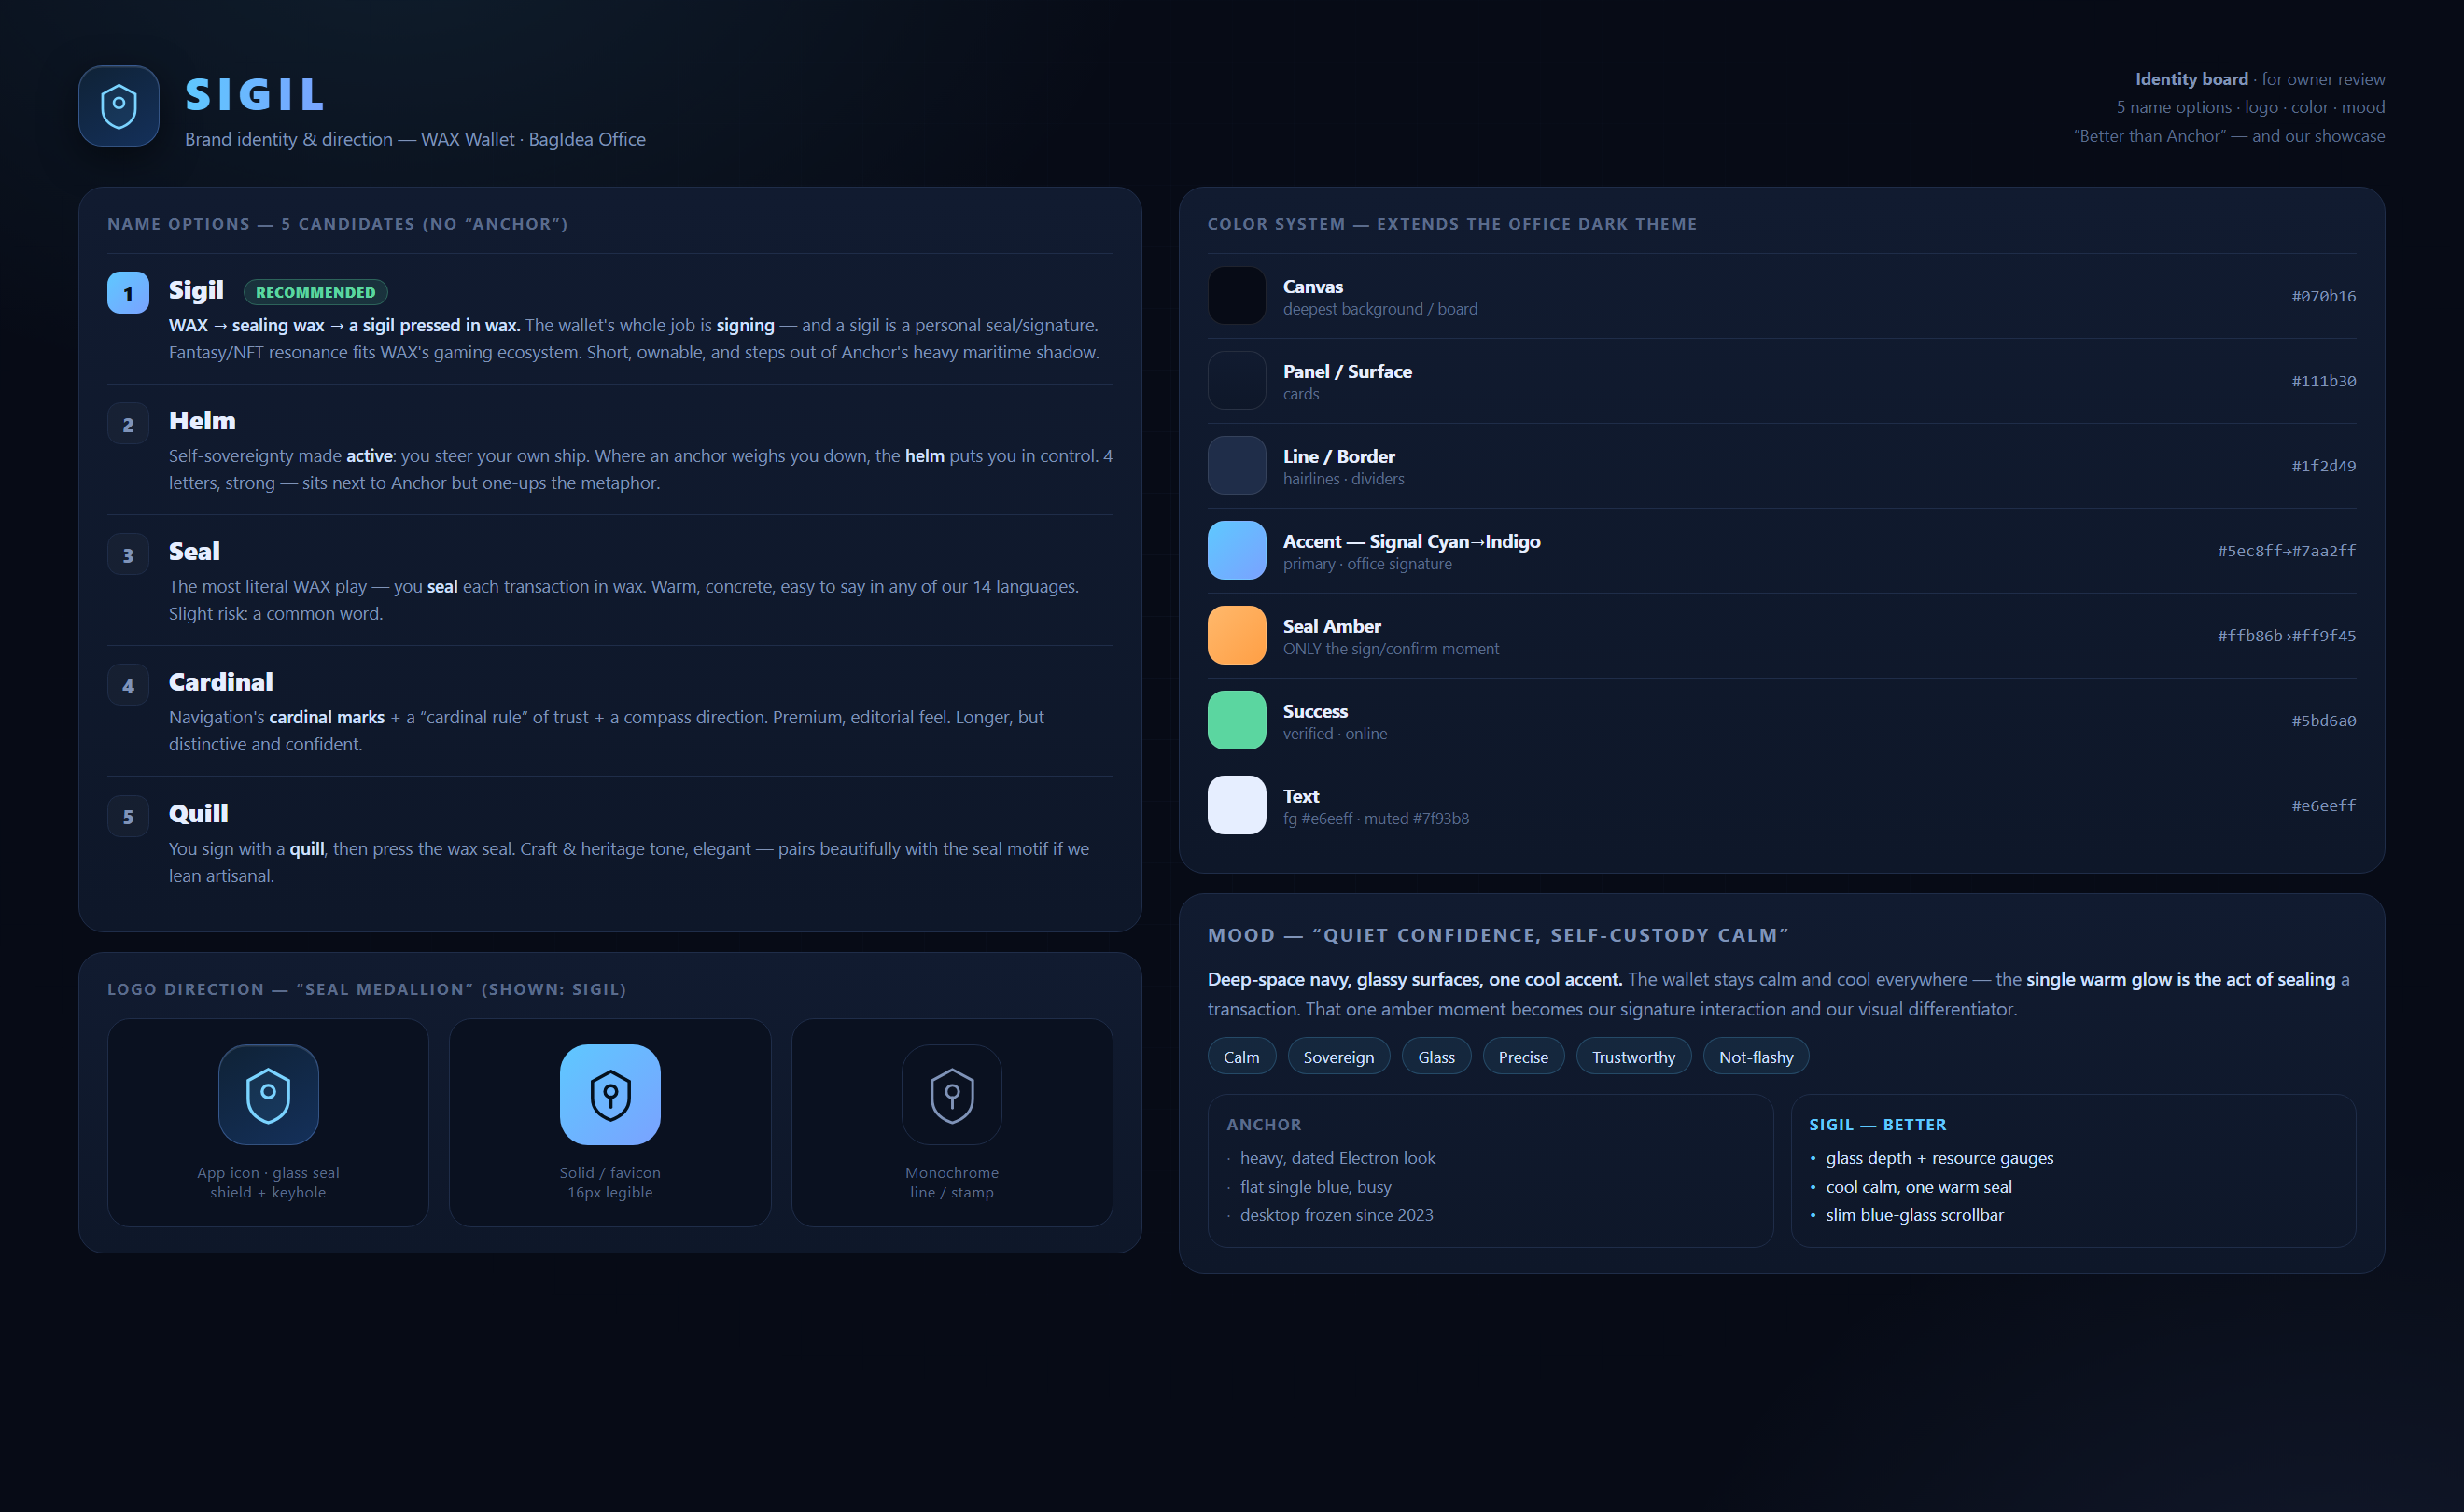
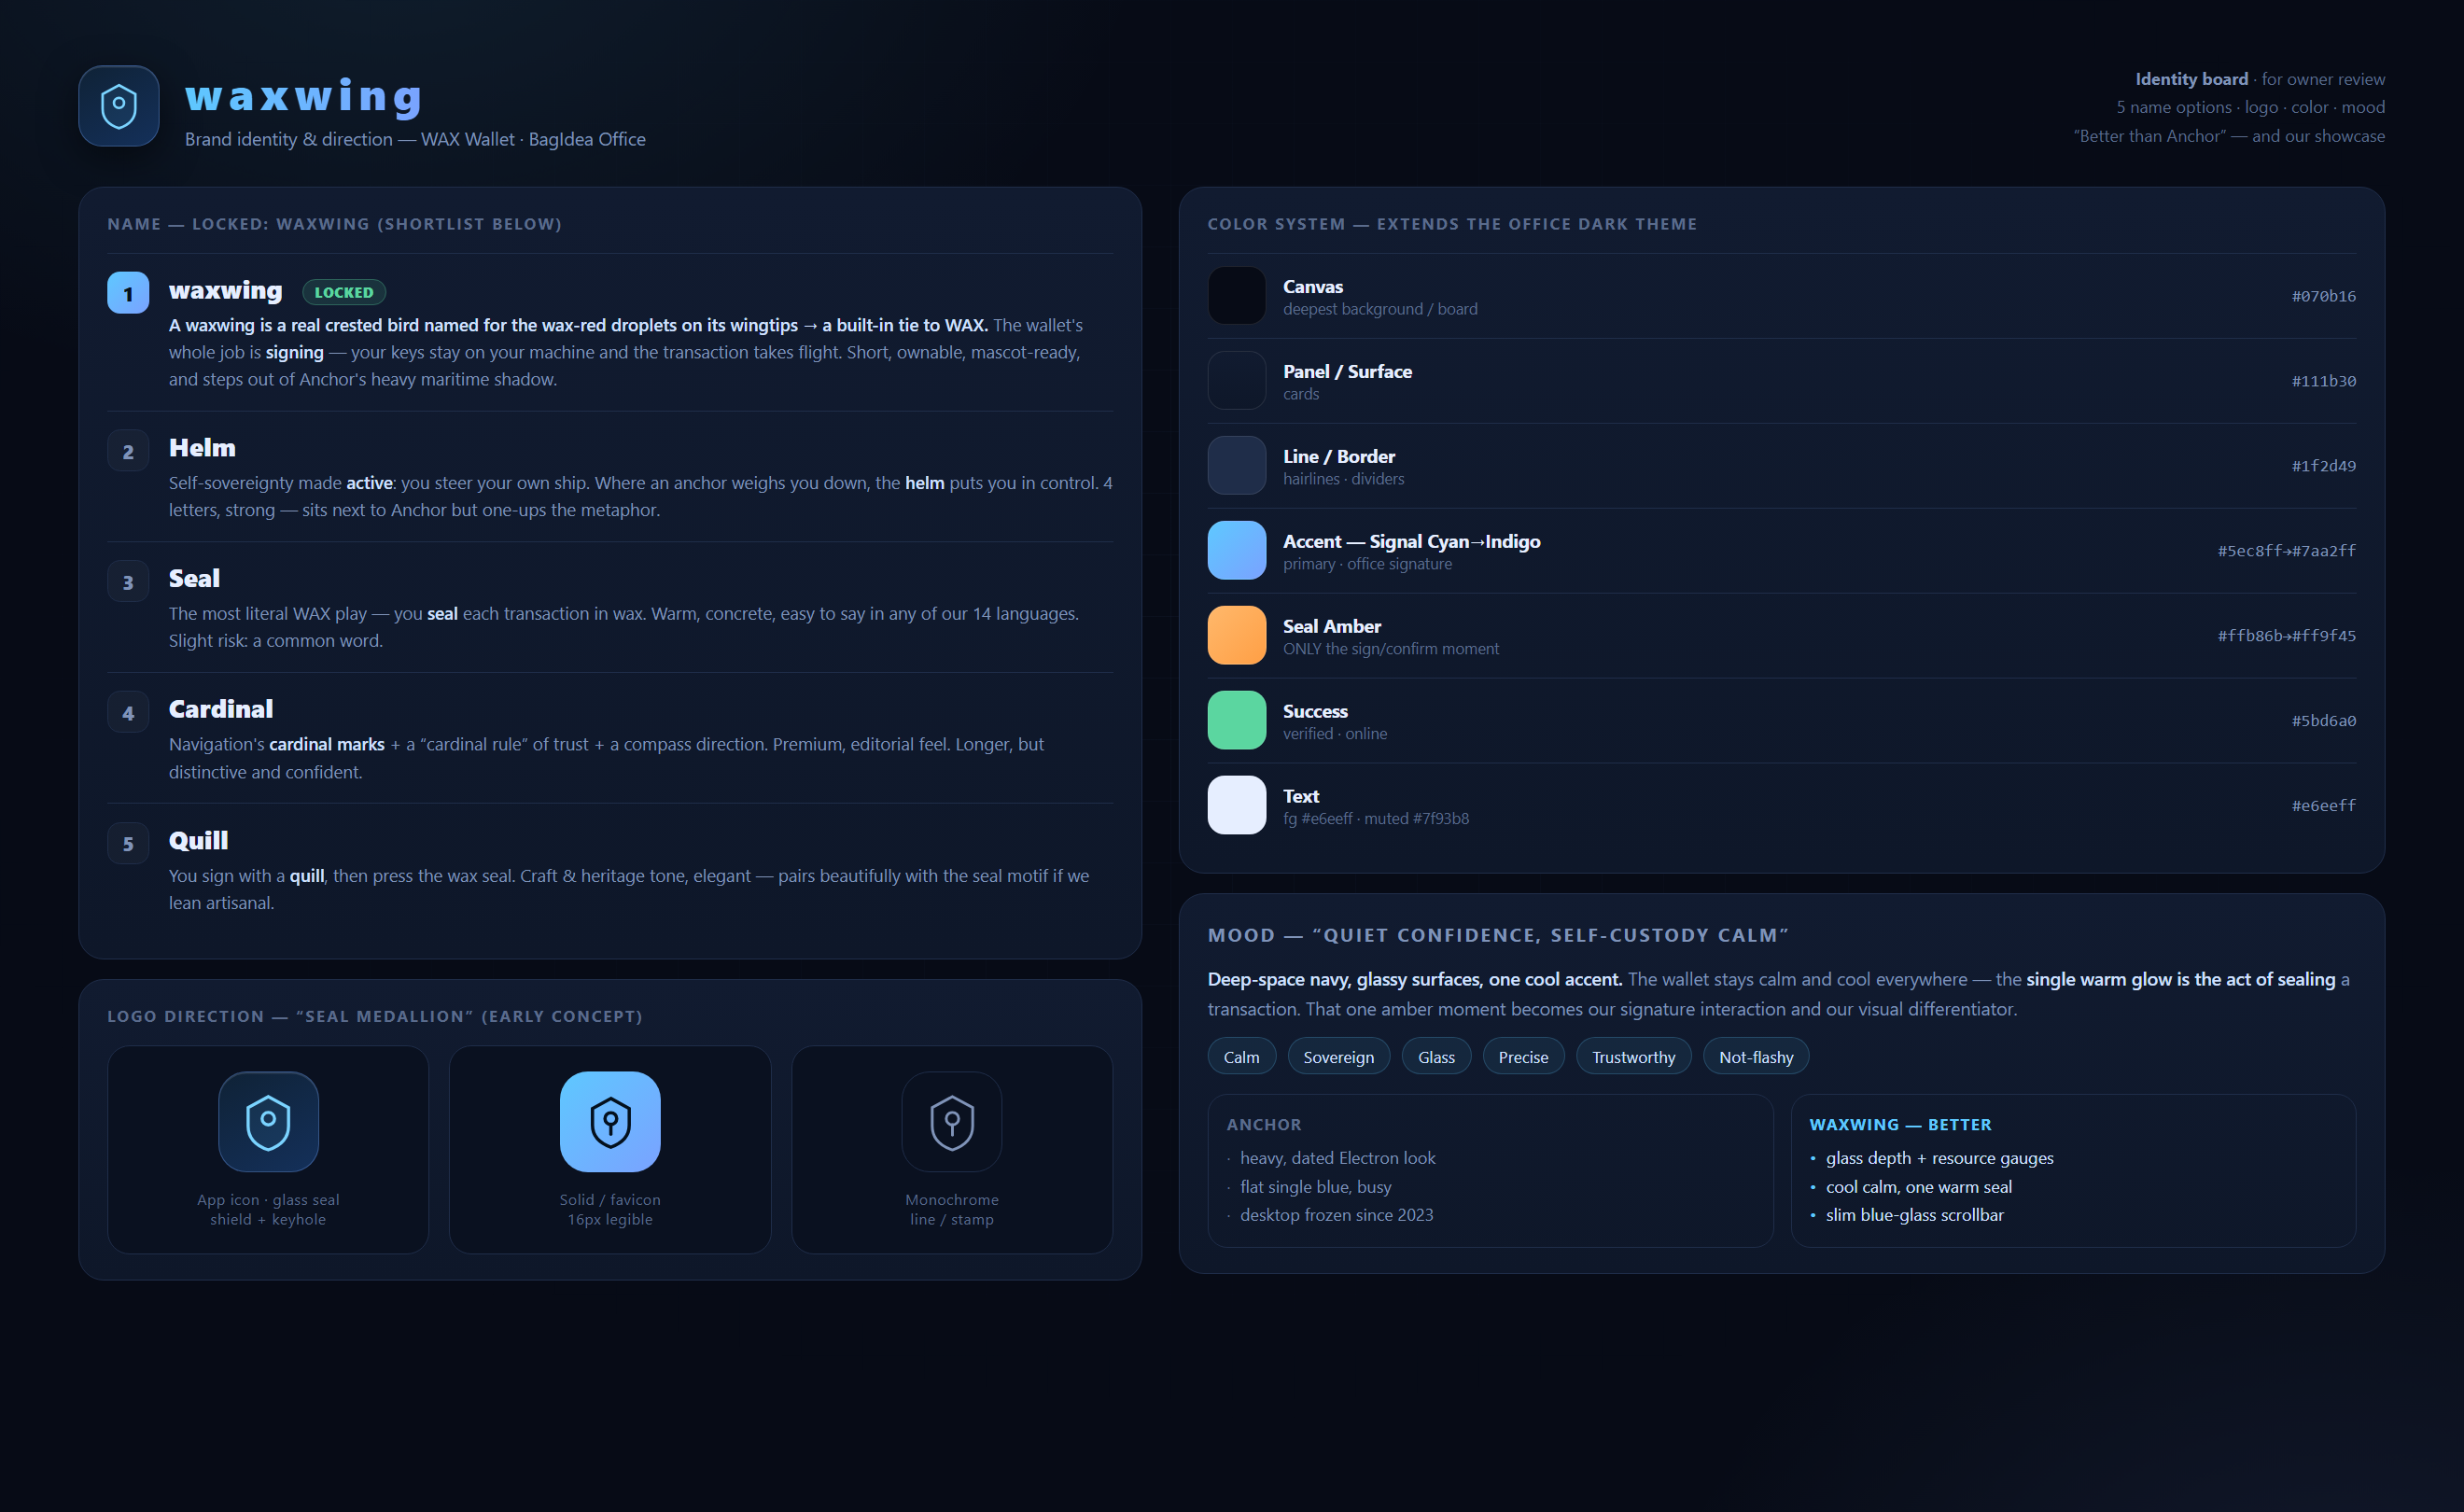
brand: replace leftover "Sigil" branding with waxwing across design/brand assets
The README hero already used brand/hero-waxwing.png, but design/preview-screens.png
(referenced in the README) and preview-identity.png were rendered from mockups still
showing the old "SIGIL" wordmark. Rebrand the mockups + docs to waxwing and re-render
all three preview PNGs. No "Sigil" string remains anywhere in the repo.

diff --git a/design/mockup-identity.html b/design/mockup-identity.html
@@ -1,6 +1,6 @@
 <!doctype html>
 <html lang="en"><head><meta charset="utf-8"/>
-<title>Sigil — Identity</title>
+<title>waxwing — Identity</title>
 <style>
 :root{
   --bg:#0a1020; --panel:#111b30; --panel2:#0e1729; --line:#1f2d49;
@@ -88,7 +88,7 @@ body{font-family:"Segoe UI",system-ui,"Noto Sans Thai",sans-serif;-webkit-font-s
           <path d="M16 17.2 V23" stroke="url(#lg)" stroke-width="1.7" stroke-linecap="round"/>
         </svg>
       </div>
-      <div><div class="wm"><b>SIGIL</b></div><div class="tag">Brand identity & direction — WAX Wallet · BagIdea Office</div></div>
+      <div><div class="wm"><b>waxwing</b></div><div class="tag">Brand identity & direction — WAX Wallet · BagIdea Office</div></div>
     </div>
     <div class="headmeta"><div><b>Identity board</b> · for owner review</div><div>5 name options · logo · color · mood</div><div>“Better than Anchor” — and our showcase</div></div>
   </div>
@@ -97,11 +97,11 @@ body{font-family:"Segoe UI",system-ui,"Noto Sans Thai",sans-serif;-webkit-font-s
     <!-- LEFT: names -->
     <div class="left">
       <div class="card">
-        <p class="sect">Name options — 5 candidates (no “Anchor”)</p>
+        <p class="sect">Name — locked: waxwing (shortlist below)</p>
         <div class="name top">
           <div class="rank">1</div>
-          <div><div class="nm">Sigil <span class="pick">RECOMMENDED</span></div>
-            <div class="why"><b>WAX → sealing wax → a sigil pressed in wax.</b> The wallet's whole job is <b>signing</b> — and a sigil is a personal seal/signature. Fantasy/NFT resonance fits WAX's gaming ecosystem. Short, ownable, and steps out of Anchor's heavy maritime shadow.</div></div>
+          <div><div class="nm">waxwing <span class="pick">LOCKED</span></div>
+            <div class="why"><b>A waxwing is a real crested bird named for the wax-red droplets on its wingtips → a built-in tie to WAX.</b> The wallet's whole job is <b>signing</b> — your keys stay on your machine and the transaction takes flight. Short, ownable, mascot-ready, and steps out of Anchor's heavy maritime shadow.</div></div>
         </div>
         <div class="name">
           <div class="rank">2</div>
@@ -126,7 +126,7 @@ body{font-family:"Segoe UI",system-ui,"Noto Sans Thai",sans-serif;-webkit-font-s
       </div>
 
       <div class="card mt14">
-        <p class="sect">Logo direction — “seal medallion” (shown: Sigil)</p>
+        <p class="sect">Logo direction — “seal medallion” (early concept)</p>
         <div class="logos">
           <div class="lv"><div class="mk a">
             <svg viewBox="0 0 32 32" fill="none"><path d="M16 2 L27 8 V18 C27 25 22 29 16 31 C10 29 5 25 5 18 V8 Z" stroke="url(#lg)" stroke-width="1.7" fill="rgba(94,200,255,.08)"/><circle cx="16" cy="14" r="3.4" stroke="url(#lg)" stroke-width="1.7"/><path d="M16 17.2 V23" stroke="url(#lg)" stroke-width="1.7" stroke-linecap="round"/></svg>
@@ -160,7 +160,7 @@ body{font-family:"Segoe UI",system-ui,"Noto Sans Thai",sans-serif;-webkit-font-s
         <div class="kw"><span>Calm</span><span>Sovereign</span><span>Glass</span><span>Precise</span><span>Trustworthy</span><span>Not-flashy</span></div>
         <div class="vsrow">
           <div class="vs them"><div class="t">Anchor</div><ul><li>heavy, dated Electron look</li><li>flat single blue, busy</li><li>desktop frozen since 2023</li></ul></div>
-          <div class="vs us"><div class="t">Sigil — better</div><ul><li>glass depth + resource gauges</li><li>cool calm, one warm seal</li><li>slim blue-glass scrollbar</li></ul></div>
+          <div class="vs us"><div class="t">waxwing — better</div><ul><li>glass depth + resource gauges</li><li>cool calm, one warm seal</li><li>slim blue-glass scrollbar</li></ul></div>
         </div>
       </div>
     </div>

diff --git a/design/mockup-screens.html b/design/mockup-screens.html
@@ -1,6 +1,6 @@
 <!doctype html>
 <html lang="en"><head><meta charset="utf-8"/>
-<title>Sigil — Screens</title>
+<title>waxwing — Screens</title>
 <style>
 :root{
   --bg:#0a1020; --bg2:#0c1322; --panel:#111b30; --panel2:#0e1729; --line:#1f2d49;
@@ -184,8 +184,8 @@ body{
           </svg>
         </div>
         <div>
-          <div class="wm"><b>SIGIL</b></div>
-          <div class="tag">A WAX wallet by BagIdea Office — your seal, your keys.</div>
+          <div class="wm"><b>waxwing</b></div>
+          <div class="tag">A self-custody WAX + EOS wallet by BagIdea Office — your keys, your wax seal.</div>
         </div>
       </div>
     </div>
@@ -284,7 +284,7 @@ body{
         </div>
         <div class="note">
           <svg viewBox="0 0 24 24" fill="none" stroke="currentColor" stroke-width="2"><path d="M12 2L3 7v6c0 5 4 8 9 9 5-1 9-4 9-9V7z"/><path d="M9 12l2 2 4-4"/></svg>
-          <span><b style="color:#cfe0ff">Signed in your wallet.</b> Sigil never holds your key — you'll approve this in your connected wallet. Est. resource cost ~0.3 ms CPU.</span>
+          <span><b style="color:#cfe0ff">Signed in your wallet.</b> waxwing never holds your key — you'll approve this in your connected wallet. Est. resource cost ~0.3 ms CPU.</span>
         </div>
         <button class="seal-cta">
           <svg viewBox="0 0 24 24" fill="none" stroke="currentColor" stroke-width="2"><circle cx="12" cy="9" r="5"/><path d="M9 13l-2 8 5-3 5 3-2-8"/></svg>
@@ -307,7 +307,7 @@ body{
             <path d="M16 17.2 V23" stroke="url(#lg2)" stroke-width="1.6" stroke-linecap="round"/>
           </svg>
         </div>
-        <div class="u-name">SIGIL</div>
+        <div class="u-name">waxwing</div>
         <div class="u-sub">Welcome back. Unlock to continue.</div>
         <div class="acct-chip"><span class="av"></span>monanisa.wam</div>
         <div class="pwd"><div class="dots">••••••••••</div>

diff --git a/brand/preview-brand.html b/brand/preview-brand.html
@@ -99,7 +99,7 @@
       <h3 style="margin-top:22px">Why “waxwing”</h3>
       <div class="why">The <b>waxwing</b> is a sleek crested bird literally named for the <b>wax-red droplets on its wingtips</b> — a built-in tie to <b>WAX</b>. Our one warm note, the <span class="amber">amber wingtip</span>, <i>is</i> that wax drop, and doubles as the <span class="amber">seal/sign moment</span>. Cool & glassy everywhere; one warm glow when you commit. Self-custody = <b>your keys take flight.</b></div>
       <div class="pillrow"><span class="pill on">recommended</span><span class="pill">cleared in crypto</span><span class="pill">ownable</span><span class="pill">mascot-ready</span><span class="pill">reads at 16px</span></div>
-      <div class="killed">Cleared & dropped — <b>Sigil</b> (SGL coin, Sigil AI, Sigil Finance) · <b>Quill</b> (DFINITY ICP wallet) · <b>Crest / Signet / Wick</b> (existing wallets / BTC testnet). Runners-up that passed: <span class="ok">Cera</span>, <span class="ok">Cachet</span>.</div>
+      <div class="killed">Cleared & dropped — <b>Quill</b> (DFINITY ICP wallet) · <b>Crest / Signet / Wick</b> (existing wallets / BTC testnet) · <b>Cardinal</b> (token + ordinals). Runners-up that passed: <span class="ok">Cera</span>, <span class="ok">Cachet</span>.</div>
     </div>
   </div>
 

diff --git a/design/DESIGN.md b/design/DESIGN.md
@@ -1,8 +1,8 @@
-# Sigil — WAX Wallet · Identity + UI/UX (flagship concept)
+# waxwing — WAX Wallet · Identity + UI/UX (flagship concept)
 
-> ⚠️ **NAME SUPERSEDED (2026-06-24):** trademark clearance failed for "Sigil" (multiple crypto
-> collisions: SGL coin, Sigil AI, Sigil Finance). The locked brand is now **waxwing** —
-> see `../brand/BRAND.md`. The UI/UX spec below still stands; only the name + logo concept changed.
+> ⚠️ **NAME (2026-06-24):** the locked brand is **waxwing** — see `../brand/BRAND.md`.
+> An earlier shortlist favorite was dropped after trademark clearance failed (crowded crypto
+> namespace). The UI/UX spec below still stands; only the name + logo concept changed.
 
 Designer: **Monanisa** · 2026-06-24 · for owner review.
 Goal: be **better than Anchor** and serve as a **showcase of BagIdea Office**.
@@ -13,11 +13,11 @@ Boards: `preview-identity.png`, `preview-screens.png` (source: `mockup-identity.
 
 ---
 
-## 1) Name — 5 candidates (no “Anchor”)
+## 1) Name — locked: waxwing (shortlist, no “Anchor”)
 
 | # | Name | Why |
 |---|------|-----|
-| **1 ⭐** | **Sigil** *(recommended)* | **WAX → sealing wax → a sigil pressed in wax.** The wallet's whole job is **signing**, and a sigil is a personal seal/signature. Fantasy/NFT resonance fits WAX's gaming ecosystem. Short, ownable, and out of Anchor's heavy maritime shadow. |
+| **1 ⭐** | **waxwing** *(locked)* | **A waxwing is a real crested bird named for the wax-red droplets on its wingtips → a built-in tie to WAX.** The wallet's whole job is **signing**; your keys stay on your machine and the tx takes flight. Short, ownable, mascot-ready, and out of Anchor's heavy maritime shadow. |
 | 2 | **Helm** | Self-sovereignty made **active** — you steer your own ship. Where an anchor weighs you down, the helm puts you in control. 4 letters, strong; sits next to Anchor but one-ups the metaphor. |
 | 3 | **Seal** | Most literal WAX play — you **seal** each transaction in wax. Warm, concrete, easy in all 14 languages. Risk: a common word. |
 | 4 | **Cardinal** | Navigation's **cardinal marks** + a “cardinal rule” of trust + a compass direction. Premium, editorial. Longer but confident. |

diff --git a/brand/BRAND.md b/brand/BRAND.md
@@ -31,8 +31,8 @@ Designer: **Monanisa** · 2026-06-24 · for owner review.
 | Seal | ⚠️ dropped | Most literal, but a common word — impossible to own / trademark / search. |
 | Helm | ⚠️ dropped | No crypto-wallet collision, but collides hard with **Kubernetes Helm** in dev tooling. |
 
-**Cleared & killed (collisions):** **Sigil** (SGL coin, Sigil AI on Solana, Sigil Finance, Sigil Fund — crowded) · **Quill** (DFINITY's ICP self-custody wallet — direct hit) · **Crest** (Crest Protocol + a launching BTC wallet) · **Signet** (Bitcoin *signet* test network + Signature Bank Signet) · **Wick** (Wick Trade / Wick Finance) · **Cardinal** (CARDINAL token + ordinals tooling).
-*(This supersedes the earlier "Sigil" recommendation in `design/DESIGN.md`, which was flagged "clearance needed before lock." Clearance failed — Sigil is out.)*
+**Cleared & killed (collisions):** **Quill** (DFINITY's ICP self-custody wallet — direct hit) · **Crest** (Crest Protocol + a launching BTC wallet) · **Signet** (Bitcoin *signet* test network + Signature Bank Signet) · **Wick** (Wick Trade / Wick Finance) · **Cardinal** (CARDINAL token + ordinals tooling).
+*(This supersedes an earlier shortlist recommendation in `design/DESIGN.md`, which was flagged "clearance needed before lock." That name's clearance failed — it's out.)*
 
 ---
 